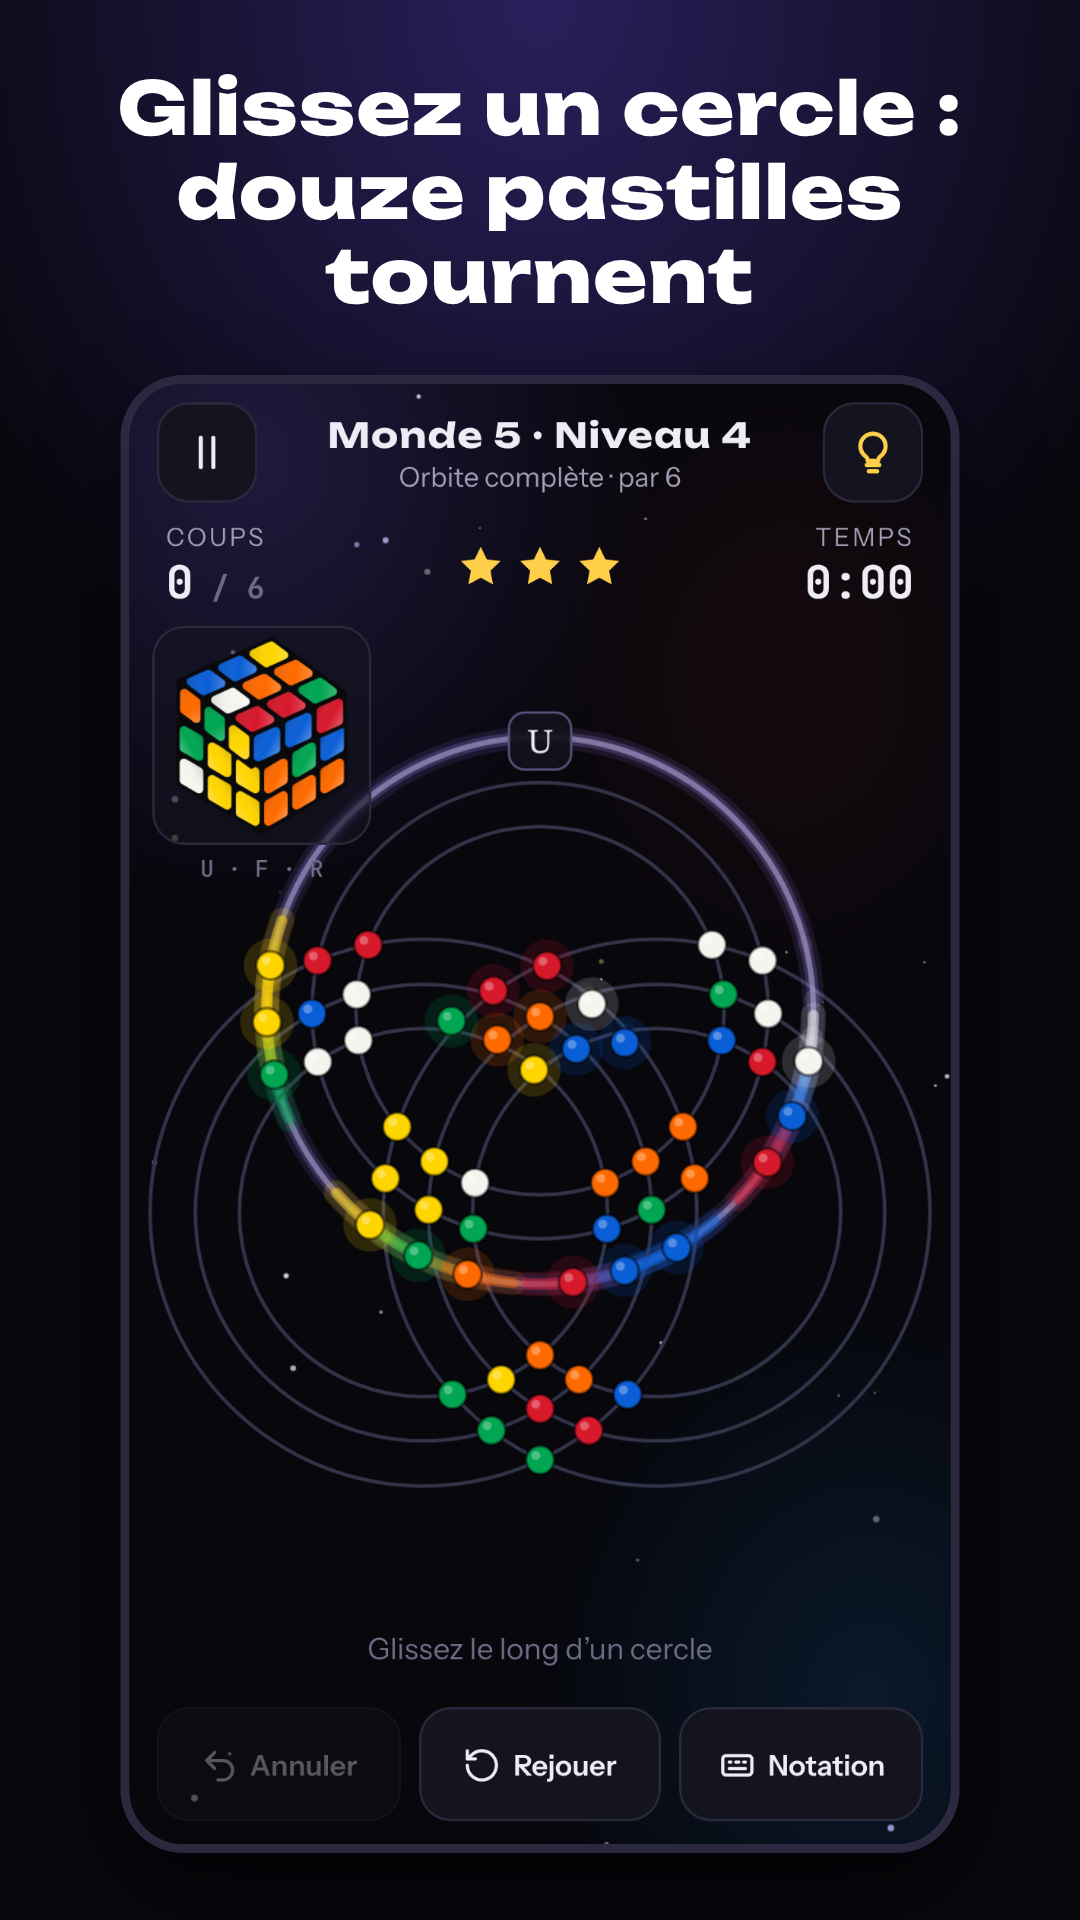
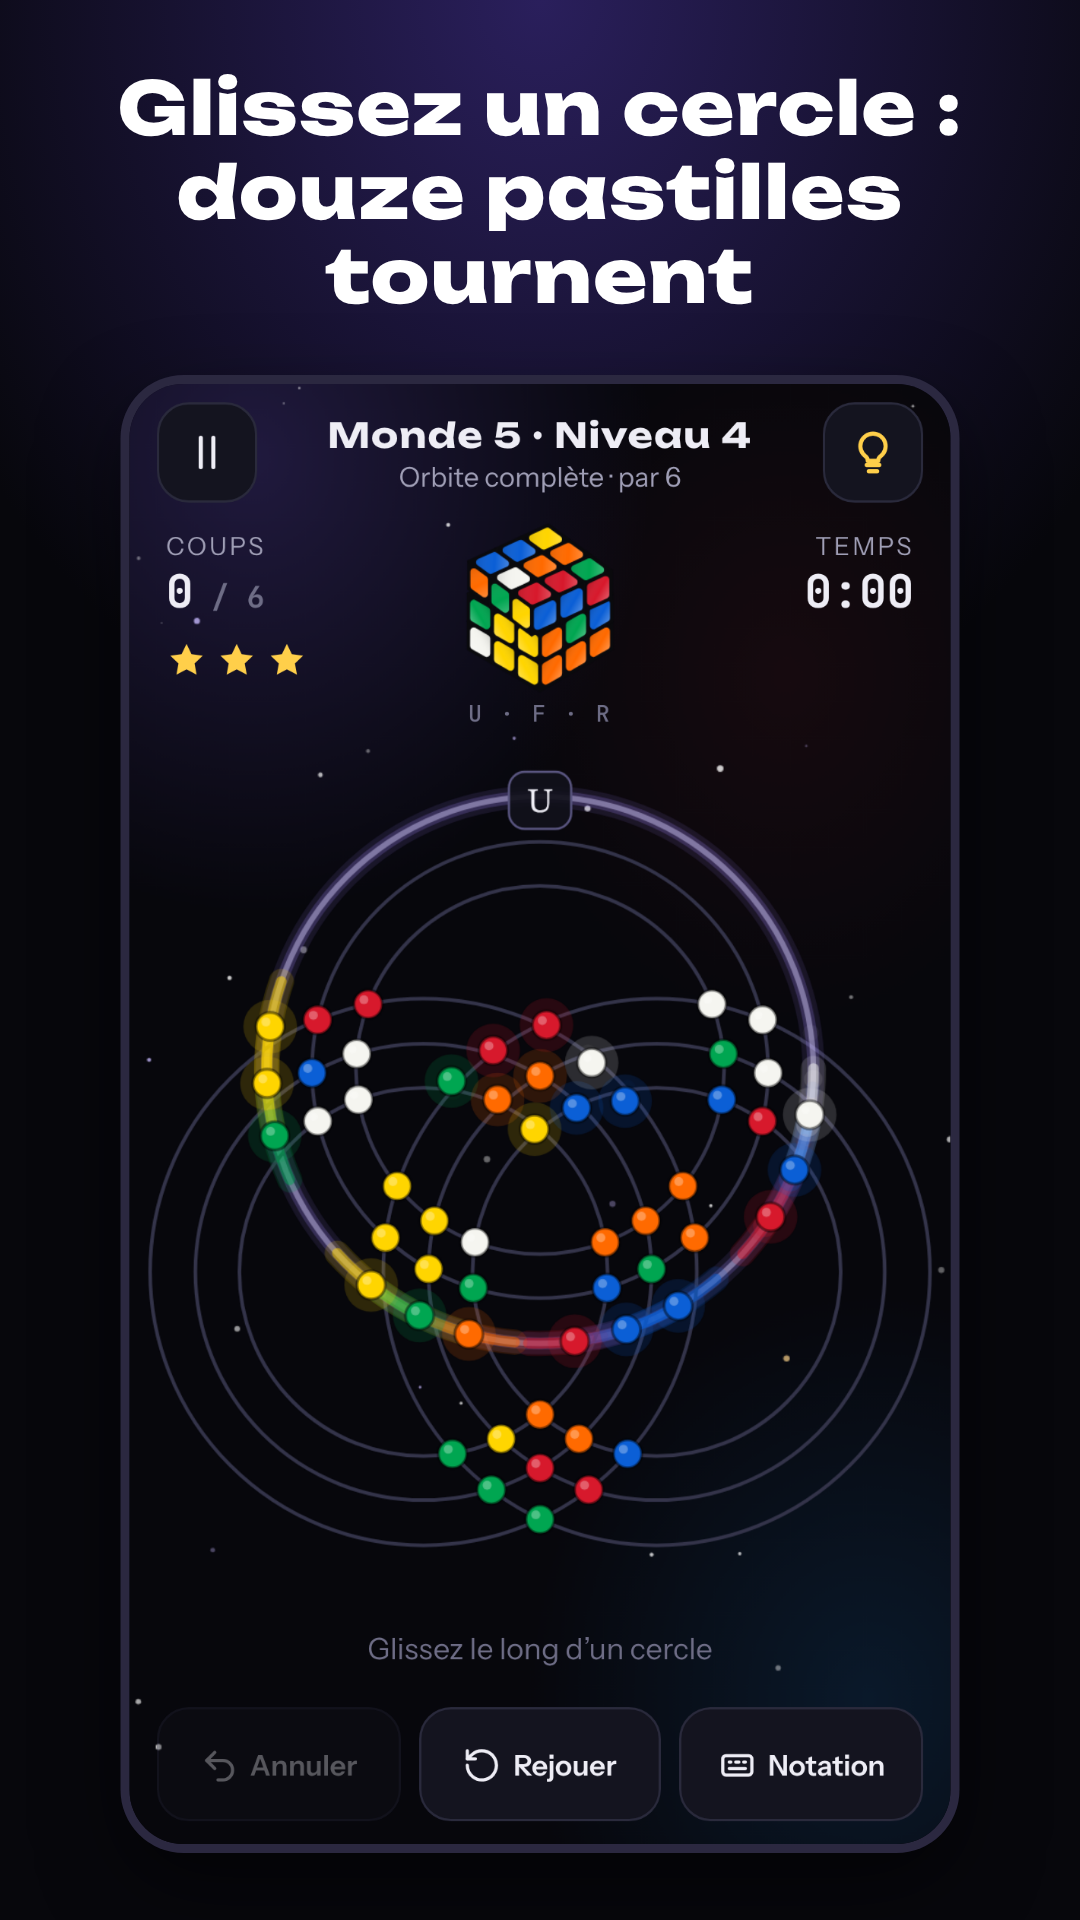
Le cube en perspective au centre, entre les coups et le temps
Comme dans la visualisation de référence : le cube trône au-dessus du plateau, sans cadre, et
prend la hauteur que le plateau laisse (jusqu'à 150 px sur un téléphone haut, 64 px au plus
court). Les étoiles passent sous les coups, qu'elles mesurent.

Claude-Session: https://claude.ai/code/session_0149xvqQAFsWoXJkF64USQEK

Changed region(s): [[0.1222, 0.25, 0.8861, 0.8125], [0.7333, 0.2812, 0.8556, 0.3125]]

diff --git a/orbicube/www/index.html b/orbicube/www/index.html
@@ -151,7 +151,7 @@ a.bouton{text-decoration:none;color:inherit}
 .jtitre span{display:block;font-size:12px;color:var(--pale);margin-top:1px;white-space:nowrap;overflow:hidden;text-overflow:ellipsis}
 .ico.indice{color:var(--or)}
 .ico.indice.off{color:var(--sourd)}
-.jinfo{display:grid;grid-template-columns:1fr auto 1fr;align-items:center;padding:4px 16px 0;gap:8px}
+.jinfo{display:grid;grid-template-columns:1fr auto 1fr;align-items:center;padding:2px 16px 0;gap:8px}
 .stat{font-size:11px;color:var(--pale);text-transform:uppercase;letter-spacing:.1em}
 .stat b{display:block;font-family:var(--f-chiffre);font-size:20px;color:var(--encre);letter-spacing:0;text-transform:none;font-variant-numeric:tabular-nums}
 .stat.d{text-align:right}
@@ -159,8 +159,12 @@ a.bouton{text-decoration:none;color:inherit}
 .jetoiles{display:flex;gap:4px}.jetoiles svg{width:22px;height:22px}
 .plateau{flex:1;min-height:0;position:relative;display:flex;align-items:center;justify-content:center;padding:4px 0}
 #plateau{display:block;touch-action:none;max-width:100%}
-#mini{--mini:clamp(76px,min(29vw,15vh),118px);position:absolute;left:10px;top:6px;width:var(--mini);height:var(--mini);border-radius:14px;background:rgba(20,20,31,.6);border:1px solid var(--trait);cursor:pointer}
-.miniv{position:absolute;left:10px;top:calc(clamp(76px,min(29vw,15vh),118px) + 10px);font-size:10px;color:var(--sourd);width:clamp(76px,min(29vw,15vh),118px);text-align:center;font-family:var(--f-chiffre);pointer-events:none}
+/* le cube en perspective trône au centre, entre les coups et le temps, comme dans la visualisation de
+   référence : sa taille (--cube) est la hauteur que le plateau laisse, calculée par redimJeu() */
+.jcube{display:grid;justify-items:center;gap:0;min-width:0}
+#mini{width:var(--cube,96px);height:var(--cube,96px);display:block;cursor:pointer;touch-action:manipulation}
+.miniv{font-size:10px;color:var(--sourd);text-align:center;font-family:var(--f-chiffre);pointer-events:none;letter-spacing:.1em}
+.jinfo .stat{align-self:start;padding-top:6px}.jinfo .jetoiles{margin-top:8px}.jinfo .jetoiles svg{width:18px;height:18px}
 .coupgeant{position:absolute;right:14px;top:4px;font-family:var(--f-math);font-size:44px;color:var(--lilas);line-height:1;pointer-events:none;text-shadow:0 0 24px rgba(165,139,255,.5)}
 .fenetre{animation:pop .45s cubic-bezier(.3,1.4,.5,1)!important}
 .bulle{position:relative;background:rgba(27,27,41,.97);border:1px solid var(--lilas);border-radius:14px;padding:12px 14px;
@@ -340,14 +344,12 @@ a.bouton{text-decoration:none;color:inherit}
       <button class="ico indice" id="btnIndice" type="button" aria-label="Indice"><svg viewBox="0 0 24 24"><path d="M9 18h6M10 21h4M12 3a6 6 0 0 0-3.5 10.9c.6.5 1 1.2 1 2V16h5v-.1c0-.8.4-1.5 1-2A6 6 0 0 0 12 3z"/></svg></button>
     </div>
     <div class="jinfo">
-      <div class="stat">Coups<b id="jCoups">0</b></div>
-      <div class="jetoiles" id="jEt" aria-label="Étoiles possibles"></div>
+      <div class="stat">Coups<b id="jCoups">0</b><div class="jetoiles" id="jEt" aria-label="Étoiles possibles"></div></div>
+      <div class="jcube"><canvas id="mini" aria-label="Cube en perspective, touchez pour changer de vue"></canvas><div class="miniv" id="miniv">U · F · R</div></div>
       <div class="stat d">Temps<b id="jTemps">0:00</b></div>
     </div>
     <div class="plateau" id="zonePlateau">
       <canvas id="plateau" aria-label="Plateau de cercles"></canvas>
-      <canvas id="mini" aria-label="Cube en perspective, touchez pour changer de vue"></canvas>
-      <div class="miniv" id="miniv">U · F · R</div>
       <div class="coupgeant" id="coupGeant"></div>
       <div class="melange" id="melangeTxt" hidden>MÉLANGE…</div>
     </div>
@@ -780,13 +782,14 @@ function dessinerMini(){if(!PROG.options.cube)return;var w=mini.clientWidth||84,
   dessinerCube(miniC,w,JeuP.col,JeuP.anim,VUE,PIVOT);}
 JeuP.apres=function(){dessinerMini();if(J&&J.t0&&!J.fini&&!J.enPause)document.getElementById("jTemps").textContent=fmt(performance.now()-J.t0);};
 function fmt(ms){var s=Math.floor(ms/1000);return Math.floor(s/60)+":"+String(s%60).padStart(2,"0");}
-// Le plateau prend toute la largeur. Sur un téléphone haut, il reste de la hauteur : au lieu de centrer
-// le plateau sur toute la zone (il passait sous le cube en perspective et laissait un vide en bas),
-// on le centre dans l'espace sous le cube, quand cet espace suffit.
-function redimJeu(){var z=document.getElementById("zonePlateau"),r=z.getBoundingClientRect();if(!r.width)return;
-  var t=Math.min(r.width,r.height-8),mv=document.getElementById("miniv"),hc=0;
-  if(PROG.options.cube&&!mv.hidden){hc=mv.getBoundingClientRect().bottom-r.top+2;if(r.height-hc<t+8)hc=0;}
-  JeuP.cv.style.marginTop=hc?hc+"px":"";JeuP.dimension(t);dessinerMini();}
+// Le plateau prend toute la largeur ; le cube, au centre de la ligne des coups et du temps, prend la
+// hauteur qui reste (entre 64 et 150 px). Sur un écran court, il rapetisse avant que le plateau ne le fasse.
+function redimJeu(){var jeu=document.getElementById("jeu"),z=document.getElementById("zonePlateau");if(!jeu.clientWidth)return;
+  if(PROG.options.cube){var paysage=getComputedStyle(jeu).display==="grid",
+      autres=jeu.querySelector(".jtete").offsetHeight+jeu.querySelector(".jbas").offsetHeight+30,
+      c=paysage?96:Math.max(64,Math.min(150,jeu.clientHeight-autres-Math.min(jeu.clientWidth,560)-12));
+    jeu.style.setProperty("--cube",Math.round(c)+"px");}
+  var r=z.getBoundingClientRect();if(!r.width)return;JeuP.dimension(Math.min(r.width,r.height-8));dessinerMini();}
 function redimAide(){var w=document.getElementById("aideCanvas").getBoundingClientRect().width;if(w)AideP.dimension(w);}
 var ro=new ResizeObserver(function(){if(ECRAN==="jeu")redimJeu();if(ECRAN==="accueil")Logo.demarrer();if(ECRAN==="aide")redimAide();});
 ["zonePlateau","logo","aideCanvas"].forEach(function(id){ro.observe(document.getElementById(id));});

diff --git a/orbicube/www/sw.js b/orbicube/www/sw.js
@@ -1,6 +1,6 @@
 // Version web (PWA) : tout le jeu est mis en cache pour se jouer hors ligne.
 // Incrémenter V à chaque publication, sinon les joueurs gardent l'ancienne version.
-var V = "orbicube-v9";
+var V = "orbicube-v10";
 var FICHIERS = ["./", "index.html", "config.js", "natif.js", "langues.js", "manifest.webmanifest", "confidentialite.html",
   "icones/favicon.png", "icones/apple-touch-icon.png", "icones/icon-192.png", "icones/icon-512.png", "icones/icon-maskable-512.png",
   "polices/polices.css", "polices/Unbounded-normal-700.woff2", "polices/Unbounded-normal-800.woff2",

diff --git a/CLAUDE.md b/CLAUDE.md
@@ -52,6 +52,10 @@ contresens). Un contrôle neuf s'éprouve de la même façon avant d'être cru.
   pastilles de chaque face bien groupées. Une recherche qui maximise seulement l'écart minimal entre
   pastilles casse les faces en anneau : ne pas la reprendre. Ces deux constantes sont recopiées dans
   `outils/icones.py` et `outils/tester.js` (geste le long de U) : les changer aux trois endroits.
+- **Le cube en perspective est au centre de la ligne des coups et du temps** (le client, le 11/10/2026,
+  « l'endroit optimal ») : le plateau prend d'abord toute la largeur, et `redimJeu()` donne au cube la
+  hauteur qui reste (`--cube`, de 64 à 150 px). Pas en filigrane : des couleurs derrière les pastilles
+  se confondraient avec elles.
 - Les niveaux de campagne sont tirés d'une graine fixe (`orbicube-<monde>-<niveau>`) : changer
   `genererMelange()` change tous les niveaux des joueurs. Ne le faire qu'avec une nouvelle graine.
 - La progression est dans `localStorage` (clé `orbicube-v1`) et, sur téléphone, dans
